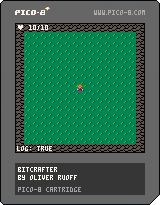
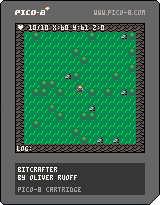
implemented generative map creation

Changed region(s): [[0.1562, 0.1171, 0.8438, 0.7317]]

diff --git a/README.md b/README.md
@@ -28,5 +28,8 @@ BitCrafter is a Pico-8 game which is about exploring, surviving and building. (A
 ## Changelog
 
 ### 2023-02-04
+- Added stones
+- Added generative map creation
 - Added initial player sprites
+
 
